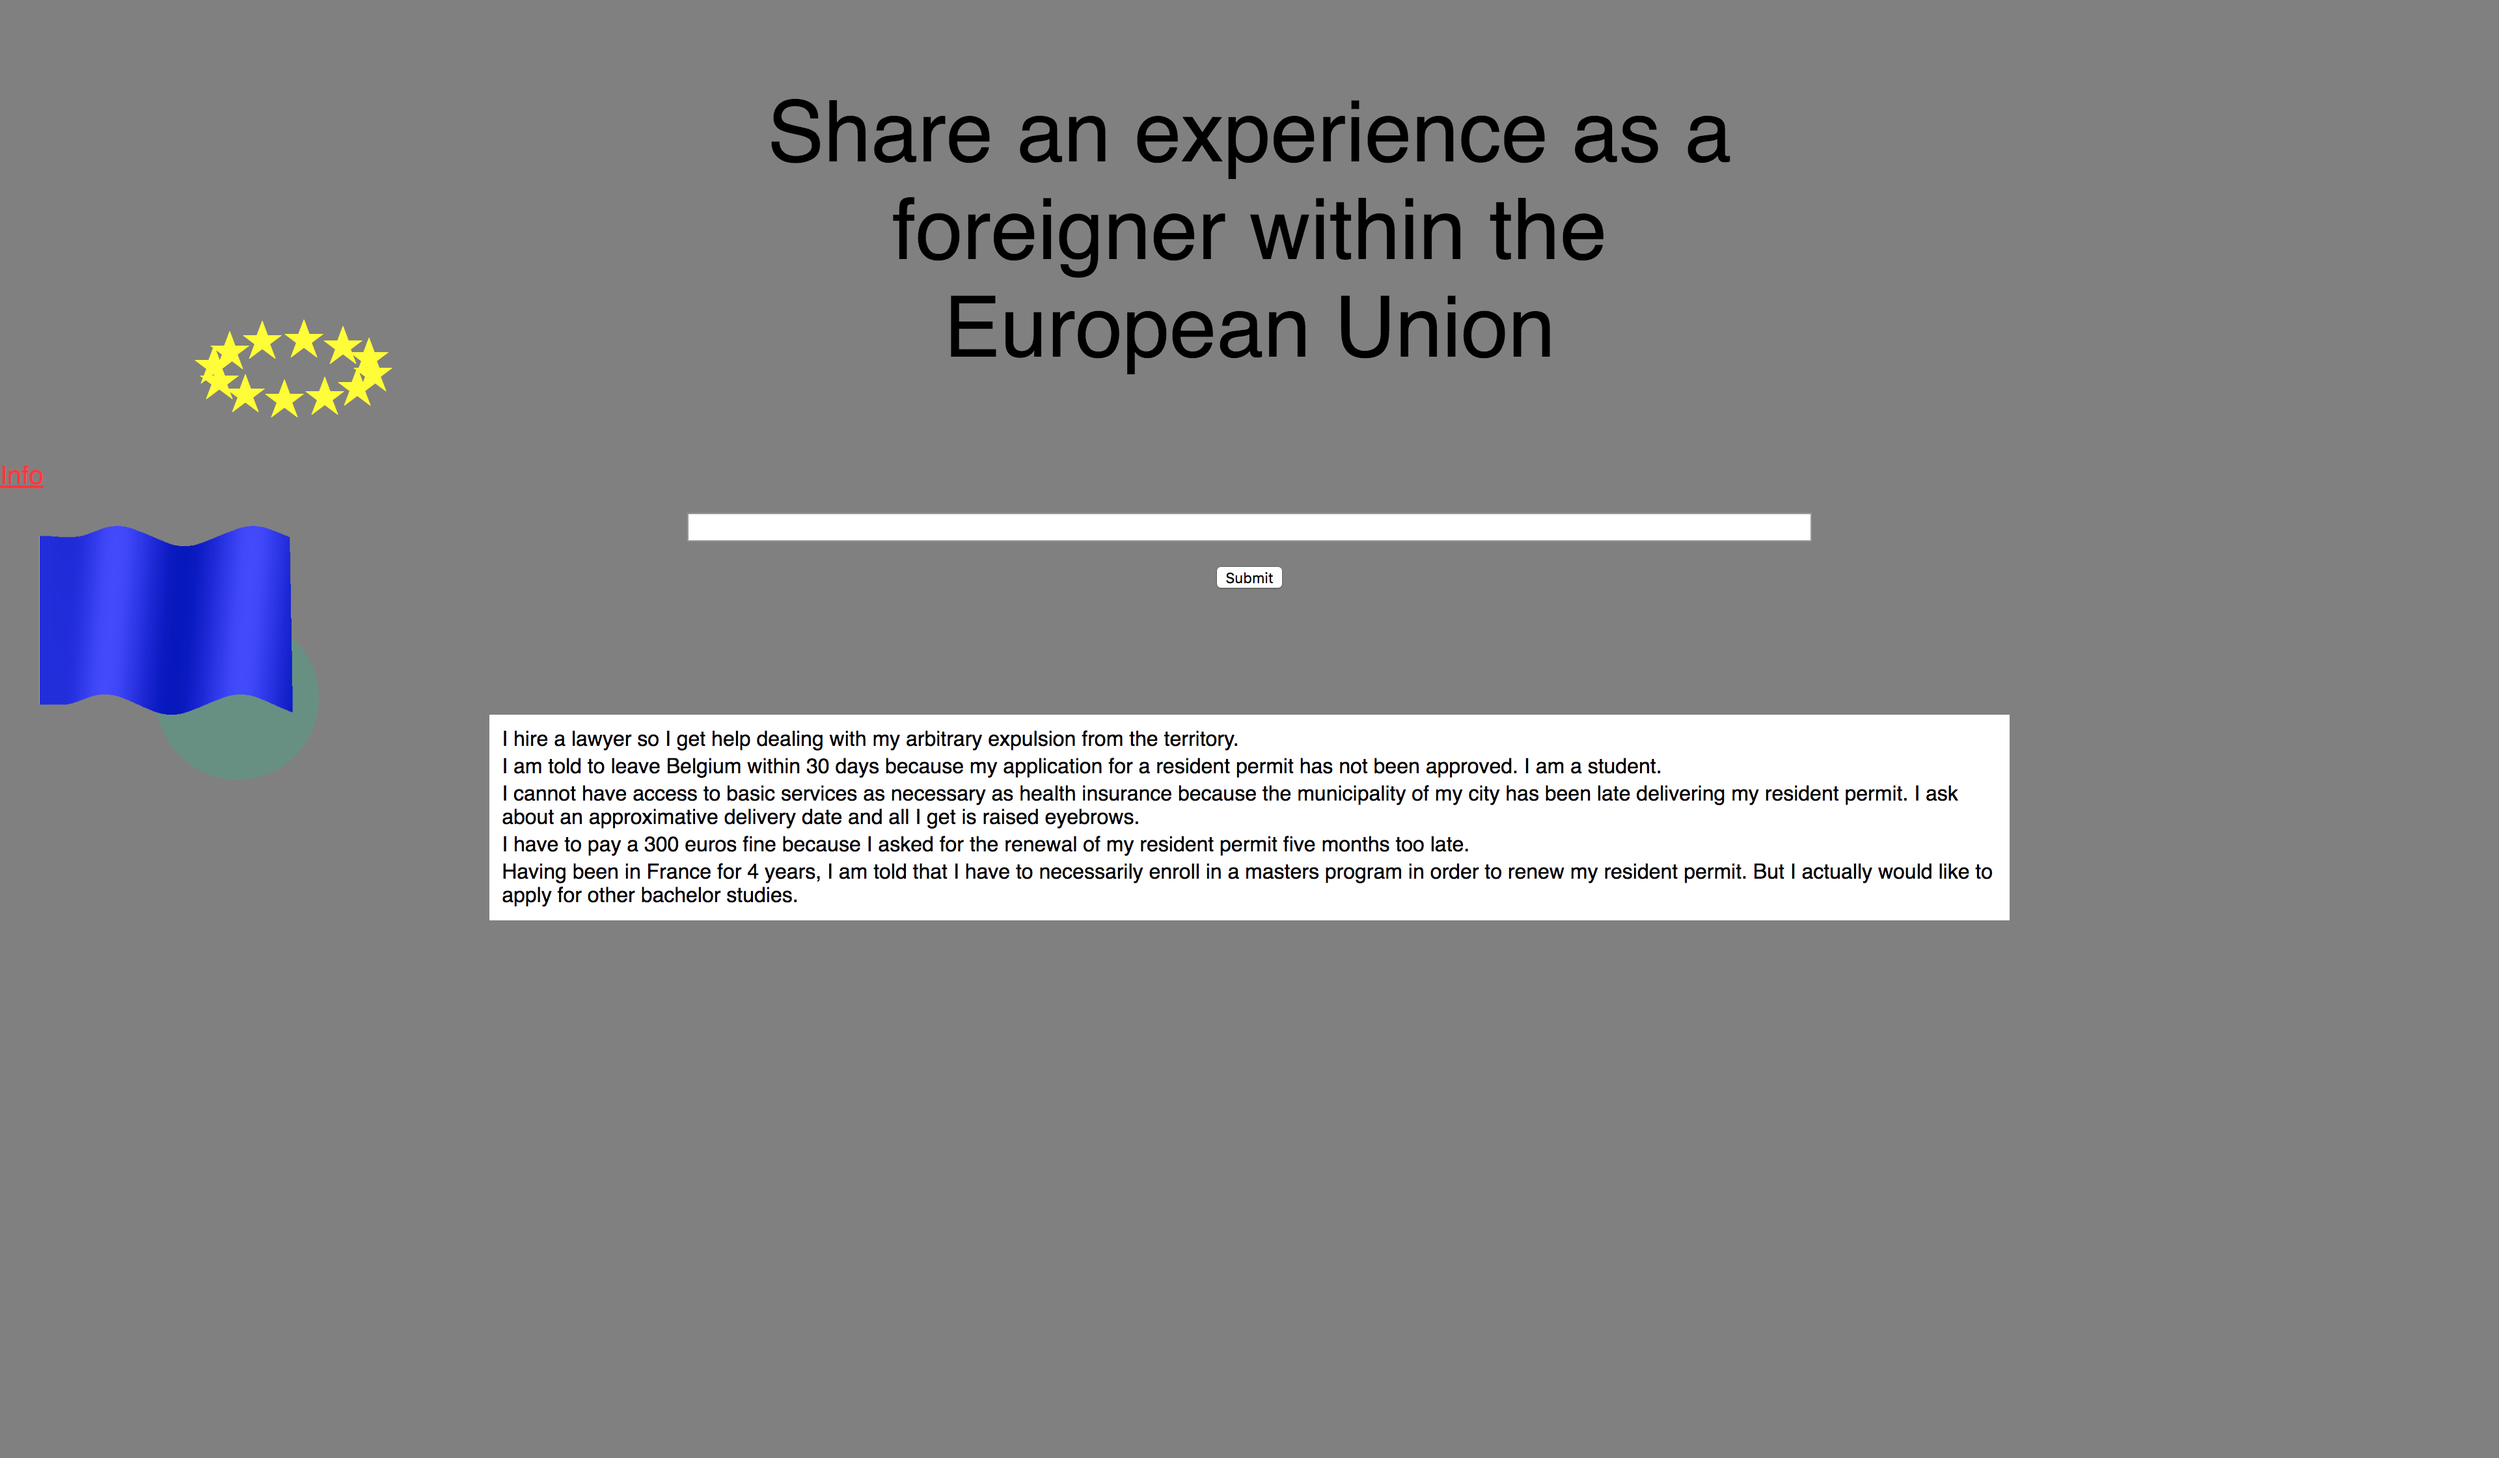
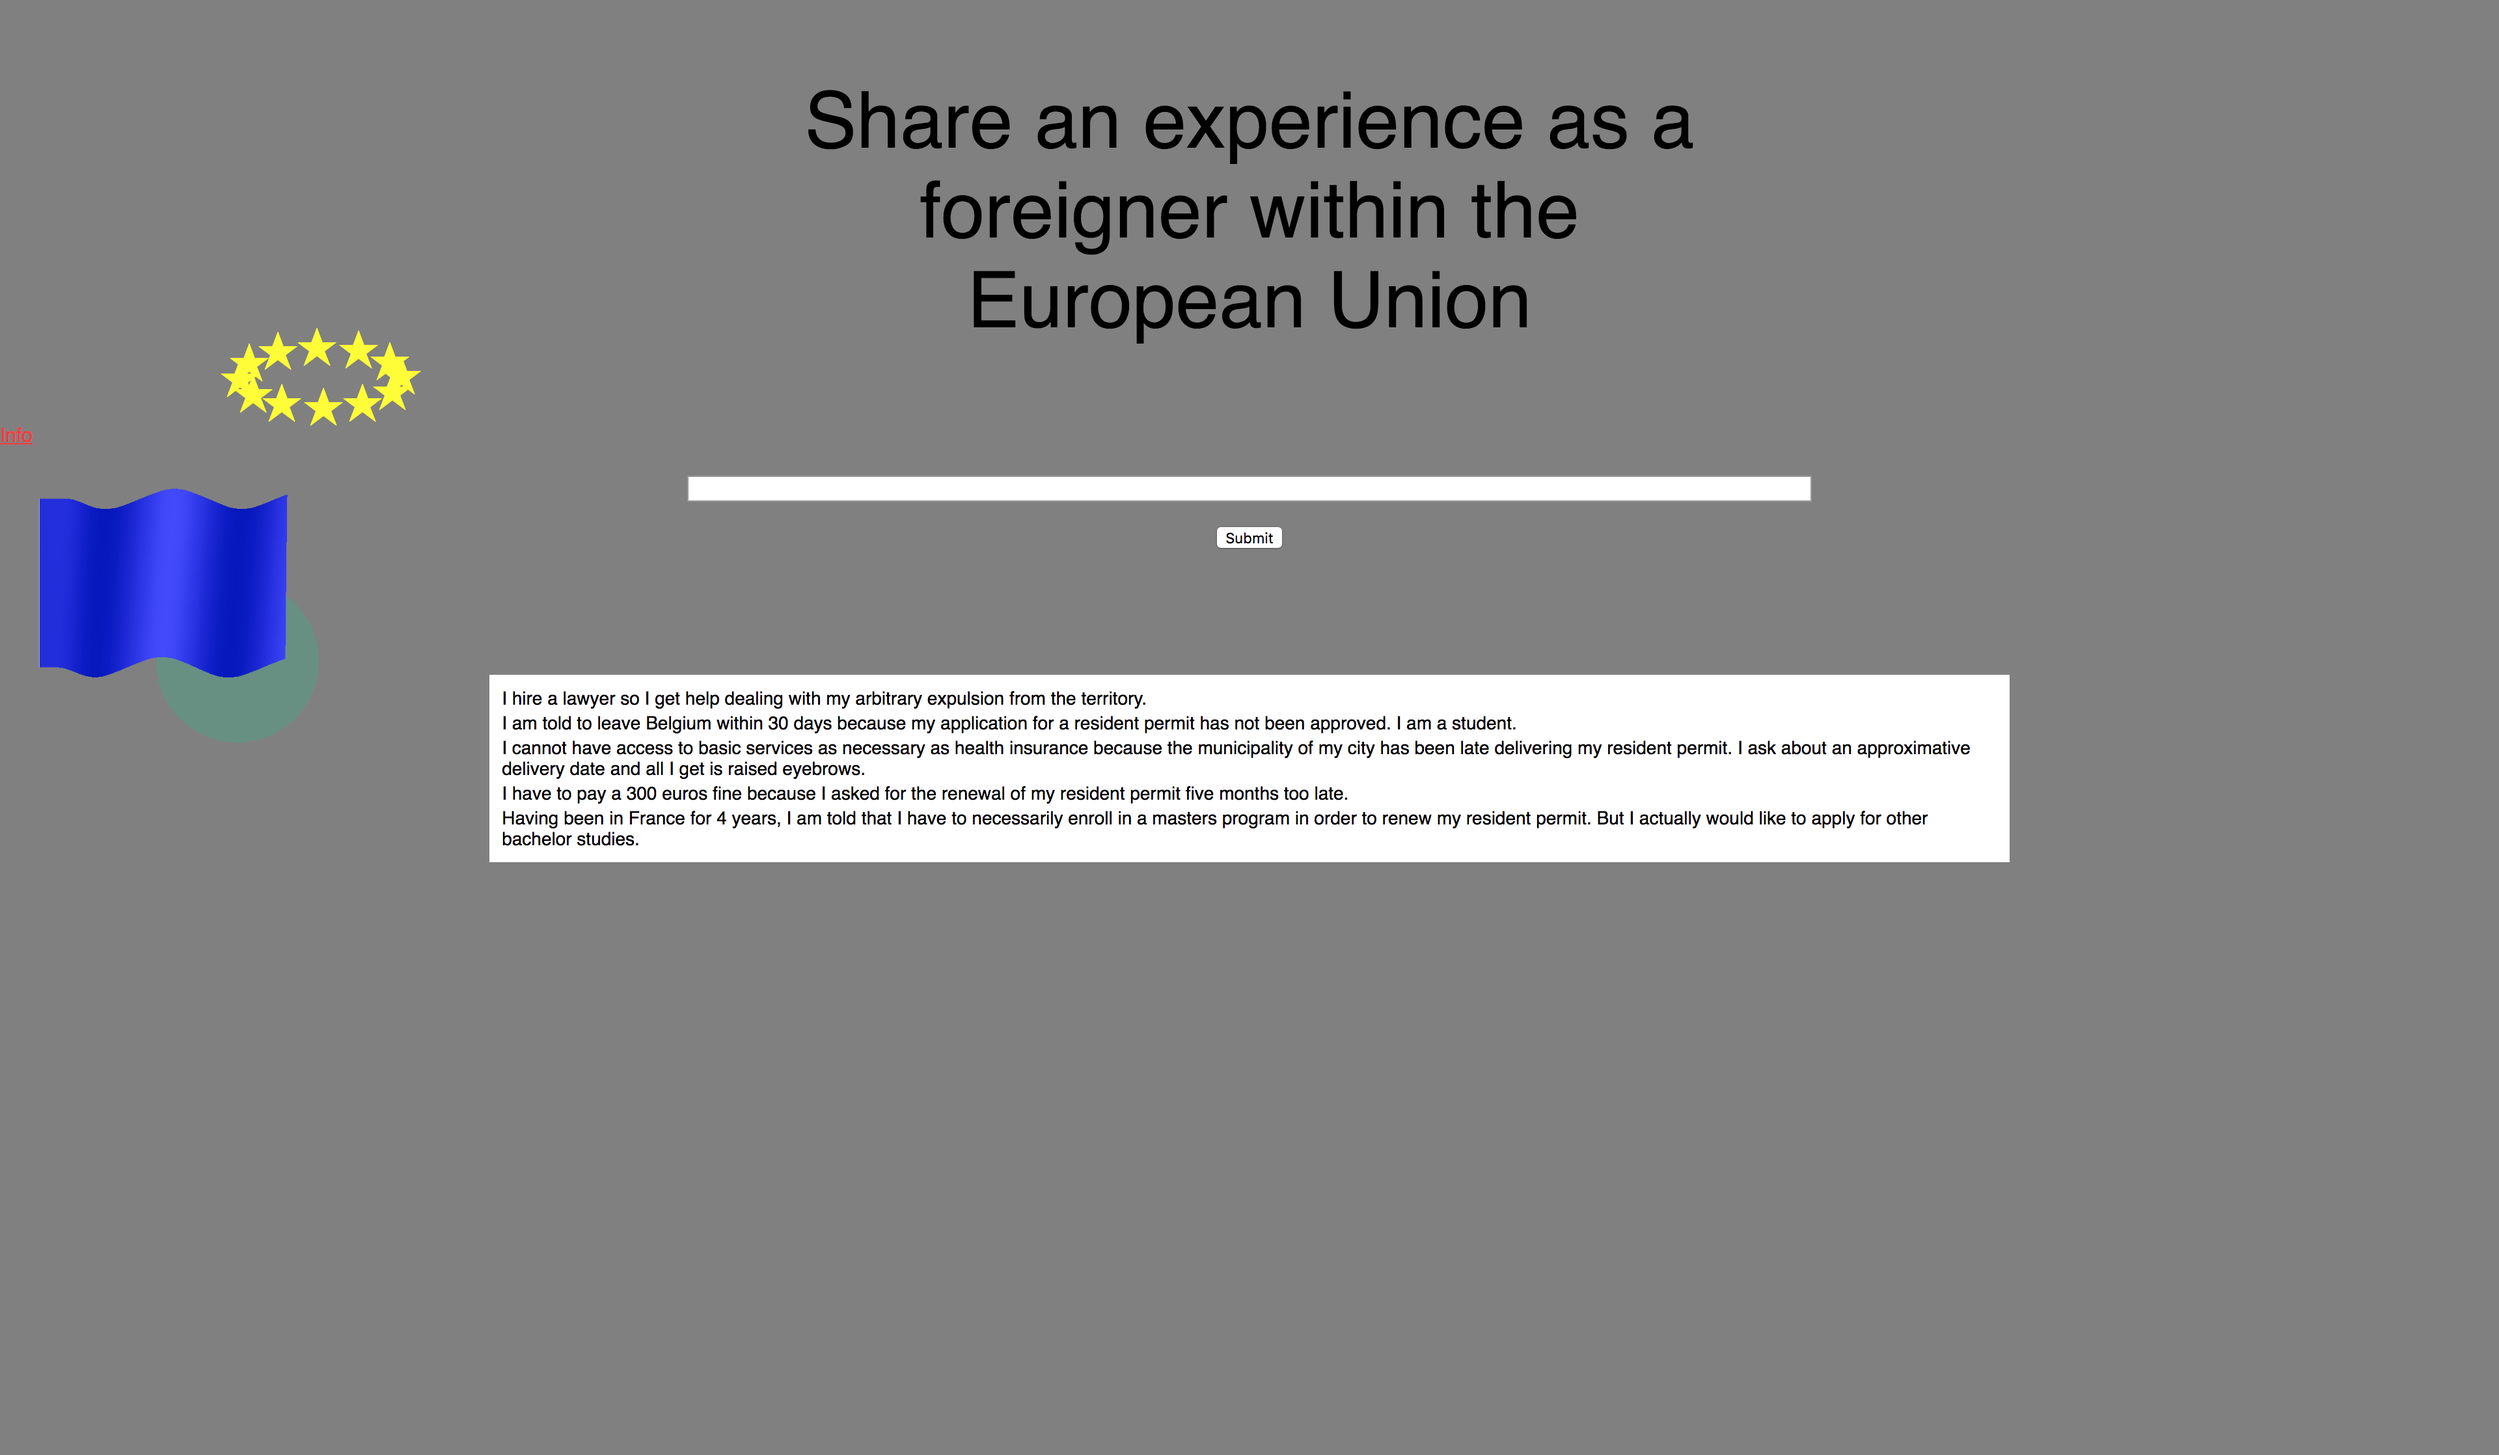
stuff

diff --git a/index.html b/index.html
@@ -168,17 +168,6 @@ setInterval(function() {
 	<body>
 
 
-<!-- 		<div id="section-13">
-			<div class="wrapper1">
-
-				<div class="font-change">
-					<span>hello</span>
-				</div>
-			</div>
-
-		</div> -->
-
-
 
 	<div id="wrapper">
 
@@ -217,7 +206,6 @@ setInterval(function() {
 		</div>
  -->
 
- <FRAMESET cols="30%">
 
 		<div class="submenu">
 			
@@ -266,14 +254,20 @@ setInterval(function() {
 				Royal Academy of Art, Kabk, The Hague <sup>(NL)</sup> 
 				<br>Ecole de Recherche Graphique, Brussels <sup>(BE)</sup></br>
 				Université Paris VIII Vincennes Saint-Denis, Paris <sup>(FR)</sup>
-				</p>
+				
 
+<!-- 				<br></br>
+				Experience:
+				<br>Slavs and Tatars, Berlin <sup>(DE)</sup></br>
+				Studio Manuel Raeder, Berlin <sup>(DE)</sup>
+				<br>Atelier Brenda, Brussels/Ostend <sup>(BE)</sup></br> -->
+</p>
 			</div>
 
 			<div class="contactmenu">
 
-				<p>Available for freelance services, collaborations and casual chats at:
-				<a class="general" href="mailto:hi@sophiaattigui.com" target="_blank">sophia.attigui@gmail.com</p>
+				<p>Never not available for freelance services, collaborations and casual chats at:
+				<a class="general" href="mailto:sophia.attigui@gmail.com" target="_blank">sophia.attigui@gmail.com</p>
 			
 			</div>
 
@@ -295,15 +289,6 @@ setInterval(function() {
 		</div>
 
 
-</FRAMESET>
 
-<!-- 
-<script>
-
-
-
-		$( function( ) {var e=Array("Georgia","Times New Roman","Arial Black","Impact","Courier New","Verdana","Lucida Console","Comic Sans MS");t(".font-change").on("click",function(){var i=e[Math.floor(Math.random()*e.length)];t(this).css("font-family",i)})}
-
-</script> -->
 
 	</body>

diff --git a/form/styles.css b/form/styles.css
@@ -97,11 +97,12 @@ a:visited {
 #title {
 	font-family: 'Helvetica';
 	font-style: normal;
-	font-size: 65px;
+	font-size: 60px;
 	text-rendering: optimizeLegibility;
 	text-align: center;
   margin: auto;
   width: 40%;
+
 /*  position: absolute;*/
 
 }
@@ -134,7 +135,7 @@ a:visited {
   font-family: 'Helvetica';
   width: 200px;
   font-style: normal;
-  font-size: 20px;
+  font-size: 15px;
   color: #ff3434;
   text-decoration: underline;
   position: absolute;
@@ -148,7 +149,7 @@ a:visited {
   background-color: #bbbaba;
   font-family: 'Helvetica';
   color: black;
-  font-size: 16px;
+  font-size: 15px;
 
   position: fixed;
   overflow: auto;
@@ -250,7 +251,7 @@ input, textarea {
   /* To make sure that all text fields have the same font settings
      By default, textareas have a monospace font */
   font: 1em sans-serif;
-  font-size: 16px;
+  font-size: 14px;
 
   width: 45%;
   box-sizing: border-box;
@@ -295,7 +296,7 @@ textarea {
   padding: 3px;
   background-color: white;
   text-align: left;
-  font-size: 16px;
+  font-size: 14px;
   height: auto;
   margin-bottom: 30px;
   padding: 8px;

diff --git a/css/styles.css b/css/styles.css
@@ -59,13 +59,6 @@ title {
 	right: 0;
 }
 
-/*.ball {
-	width: 64px;
-	height: 64px;
-	background: red;
-	display: inline-block;
-	border-radius: 50%;
-}*/
 
 .ball {
 	width: 550px;
@@ -419,7 +412,6 @@ background-color: #e6e6e6;
 	margin-top: 3%;
 	width: 70%;
 	height: 100%;
-/*	padding: 10px;*/
 	}
 
 	@media screen and (max-width: 450px) {
@@ -441,14 +433,6 @@ background-color: #e6e6e6;
 
     }
 
-
-
-/*	#buynow {
-		margin-top: 15px;
-		position: fixed;
-		width: 70px;
-
-	}*/
 
 
 /*info for projects ends here*/
@@ -601,7 +585,7 @@ article {
  * Highlight target note
  */
 
-
+    @media screen and (min-width: 450px) {
 .footer {
 	position: absolute;
 	width: 20%;
@@ -616,16 +600,18 @@ article {
   	border-color: transparent;
   	transition: 1s;
 }
+}
 
+
+    @media screen and (min-width: 450px) {
 .footer:hover {
  	border-style: solid;
   	border-width: 1px;
   	border-radius: 25px;
   	position: absolute;
   	border-color: #6d06ff;
-
-
  }
+}
 
 
 
@@ -635,6 +621,8 @@ article {
 	bottom: 0;
 	position: relative;
 	background-color: white;
+	color: #6d06ff;
+	right: 10px;
     }
 
     }

diff --git a/fearEU.html b/fearEU.html
@@ -13,7 +13,7 @@
 
 <body class="fearEU">
 	
-			
+			 <title>Fear and Loathing in the EU ・ Sophia Attigui</title>
 
 	<div class="information">
 
@@ -43,7 +43,7 @@
 
 					Fear and loathing in the EU
 					<div id="technicalinfo"><i><a class="general" href="form/index.html" target="_blank">Open website in a new window</a><br>2018</i></br></div>
-					<div id="text">An encounter with the absurd, the risible and the devastating through a growing collection of individual fables. 
+					<div id="text">An encounter with the absurd, the risible and the bitter through a growing collection of individual fables. 
           The web platform is for non-EU nationals to share their Kafkaesque bureaucratic experiences and the ciruclar and nonsensical logic in which they are forced to navigate. </div>
 			</div>
 

diff --git a/generator.html b/generator.html
@@ -14,7 +14,7 @@
 
 <body class="generator">
 			
-
+ <title>Manifestos: a generator ・ Sophia Attigui</title>
 
 					<div class="information">
 
@@ -43,7 +43,7 @@
 		<div class="generatorinformation">
 Manifestos: a generator
 <div id="technicalinfo"><i>Computer interface<br>2018</i></br></div>
-<div id="text">An automated way of enunciating ambitions, programs and refusals in the age of automation, individualism and abundance. The computer program generates art manifestos from a collection of art manifestos of all eras. </div>
+<div id="text">An automated way of enunciating ambitions, programs and refusals in the age of autopilot, individualism and abundance. The computer program generates art manifestos from a collection of art manifestos of all eras. </div>
 		</div>
 
 					</div>

diff --git a/future/index.html b/future/index.html
@@ -384,9 +384,9 @@ What are we longing for when we are caught by the sentiment of nostalgia? Is it 
 13. Erwin Wurm, ‘One Minute Sculptures’, Taipei (2000)
 <br>14. Issey Miyake, inaugural spring/summer 1999 A-POC runway show, École des Beaux-arts, Paris</br>
 15. Franz Erhard Walther, 'Sehkanal' (1968) 
-16. Pina Bausch, ‘Palermo Palermo’, Tanztheater Wuppertal Pina Bausch (2012) 
-<br>17. Rosemarie Trockel, 'Continental Divide' (1994)</br>
-18. Alain Resnais, ‘L'année dernière à Marienbad’ (1961)</div> 
+<br>16. Pina Bausch, ‘Palermo Palermo’, Tanztheater Wuppertal Pina Bausch (2012)</br> 
+17. Rosemarie Trockel, 'Continental Divide' (1994)
+<br>18. Alain Resnais, ‘L'année dernière à Marienbad’ (1961)</br></div> 
 
 </div>
 

diff --git a/guestbook.html b/guestbook.html
@@ -3,6 +3,8 @@
 <h2> Livre d'Or</h2>
 <a href="index.html">GO BACK</a>
 
+ <title>Livre d'Or ・ Sophia Attigui</title>
+
 <hr>
 <form method=post action="/cgi-bin/guestBook.pl">
 <input type=hidden name=fields value="Name,Email,Comments">

diff --git a/served.html b/served.html
@@ -59,7 +59,7 @@ interact('#carrot, #eggplant, #potato, #tomato, #tomato2, #tomato3, #tomato4, #l
 
 <body class="served">
 			
-
+ <title>Served aside ・ Sophia Attigui</title>
 
 					<div class="information">
 

diff --git a/notavailable.html b/notavailable.html
@@ -160,7 +160,7 @@ $("#slide3").click(function(){
 
 	<body class = "notavailable">
 
-
+ <title>Not available festival ・ Sophia Attigui</title>
 
 	<div class="information">
 

diff --git a/thesis.html b/thesis.html
@@ -15,7 +15,7 @@
 
 
 
-	
+	<title>Text may contain: time, space, utopia, nostalgia and one or more people ・ Sophia Attigui</title>
 			
 
 	<div class="information">

diff --git a/justanotherway.html b/justanotherway.html
@@ -12,7 +12,7 @@
 
 <body class="justanotherway">
 			
-
+        <title>Just another way to say it ・ Sophia Attigui</title>
 
 					<div class="information">
 

diff --git a/bjork.html b/bjork.html
@@ -12,7 +12,7 @@
 
 <body class="bjork">
 			
-
+ <title>An homage: All is full of Love ・ Sophia Attigui</title>
 
 					<div class="information">
 
